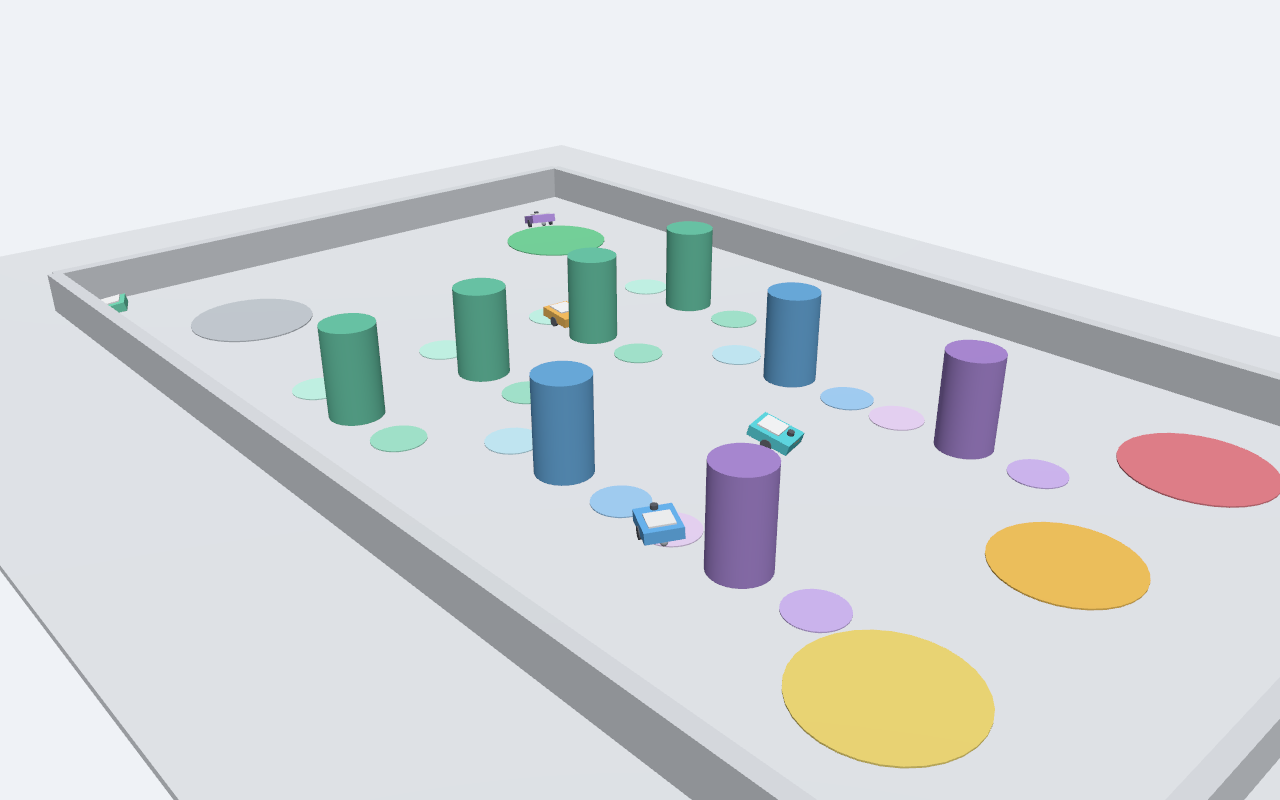
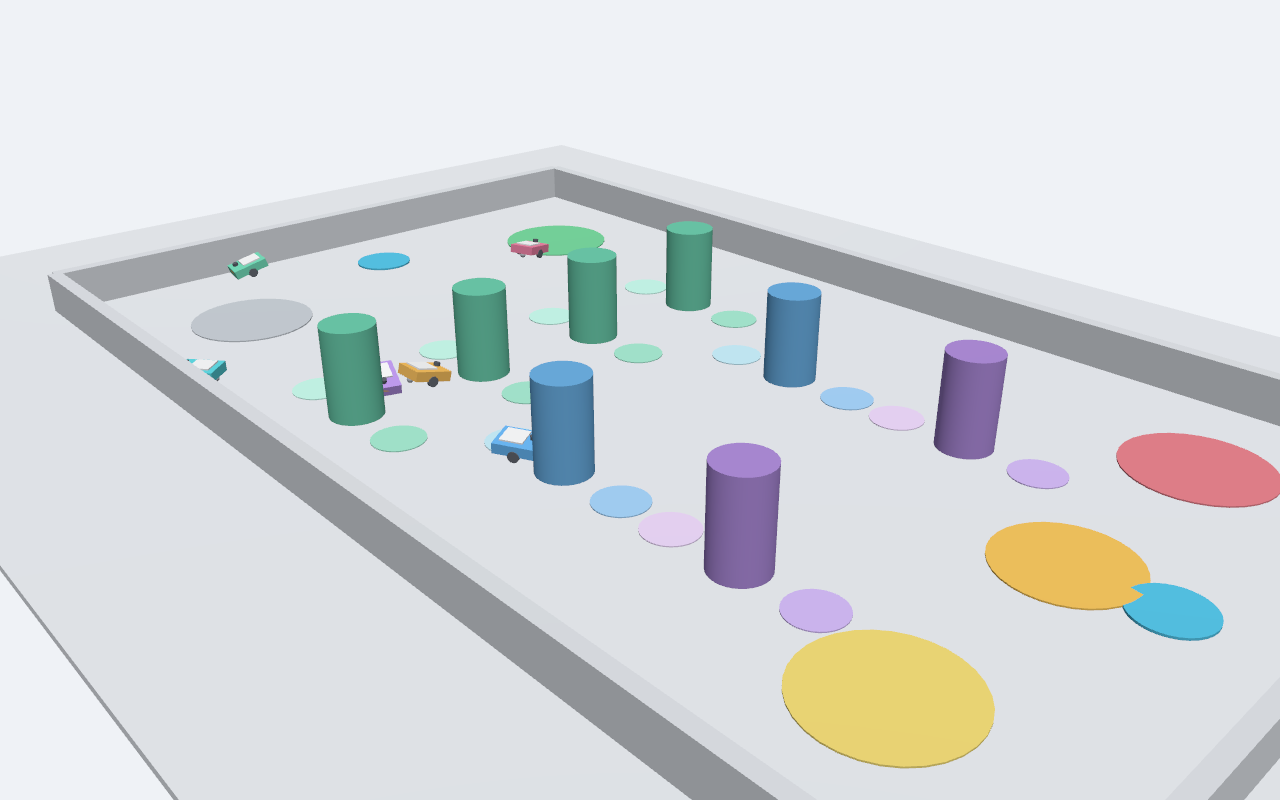
Run the upgraded stack under Gazebo and refresh the captures
- robot_description must be wrapped in ParameterValue when handed to
  robot_state_publisher; launch otherwise tries to parse the URDF as YAML and
  the whole launch aborts. Found by running it under Gazebo rather than
  assuming the logic-only runs covered it.
- expose stuck_timeout and default it to 10 s, since Gazebo's sub-1 real-time
  factor makes a wall-clock watchdog more aggressive than in logic-only mode
- control-centre capture now shows dock slots, chargers and the waiting_lease
  state; refresh the three Gazebo camera views
- document why the comparison is measured headless

diff --git a/src/fleetflow_sim/launch/factory.launch.py b/src/fleetflow_sim/launch/factory.launch.py
@@ -20,6 +20,7 @@ from launch.actions import DeclareLaunchArgument, ExecuteProcess, OpaqueFunction
 from launch.conditions import IfCondition
 from launch.substitutions import Command, LaunchConfiguration
 from launch_ros.actions import Node
+from launch_ros.parameter_descriptions import ParameterValue
 
 from fleetflow_sim import layout
 
@@ -54,7 +55,8 @@ def _robots(context, *args, **kwargs):
             Node(
                 package="robot_state_publisher", executable="robot_state_publisher",
                 name="robot_state_publisher", namespace=f"robot_{i}", output="log",
-                parameters=[dict(robot_description=urdf, frame_prefix=f"robot_{i}/",
+                parameters=[dict(robot_description=ParameterValue(urdf, value_type=str),
+                                 frame_prefix=f"robot_{i}/",
                                  use_sim_time=use_sim_time)],
             )
         )
@@ -64,6 +66,7 @@ def _robots(context, *args, **kwargs):
                 namespace=f"robot_{i}", output="screen",
                 parameters=[dict(robot_id=i, start_x=x, start_y=y,
                                   battery_drain_per_m=float(LaunchConfiguration("battery_drain").perform(context)),
+                                  stuck_timeout_s=float(LaunchConfiguration("stuck_timeout").perform(context)),
                                  use_sim_time=use_sim_time)],
             )
         )
@@ -141,6 +144,7 @@ def generate_launch_description():
         DeclareLaunchArgument("use_sim_time", default_value="false"),
         DeclareLaunchArgument("out_dir", default_value="/tmp/fleetflow_frames"),
         DeclareLaunchArgument("frame_every", default_value="3.0"),
+        DeclareLaunchArgument("stuck_timeout", default_value="10.0"),
         DeclareLaunchArgument("battery_drain", default_value="0.55"),
         DeclareLaunchArgument("policy", default_value="nearest"),
         DeclareLaunchArgument("seed", default_value="7"),

diff --git a/src/fleetflow_sim/launch/logic_only.launch.py b/src/fleetflow_sim/launch/logic_only.launch.py
@@ -56,6 +56,7 @@ def _spawn(context, *args, **kwargs):
                  namespace=f"robot_{i}", output="screen",
                  parameters=[dict(robot_id=i, start_x=x, start_y=y,
                                   battery_drain_per_m=float(LaunchConfiguration("battery_drain").perform(context)),
+                                  stuck_timeout_s=float(LaunchConfiguration("stuck_timeout").perform(context)),
                                   use_internal_kinematics=True)])
         )
     return actions
@@ -66,6 +67,7 @@ def generate_launch_description():
         DeclareLaunchArgument("num_robots", default_value="8"),
         DeclareLaunchArgument("max_tasks_in_flight", default_value="6"),
         DeclareLaunchArgument("num_materials", default_value="12"),
+        DeclareLaunchArgument("stuck_timeout", default_value="10.0"),
         DeclareLaunchArgument("battery_drain", default_value="0.55"),
         DeclareLaunchArgument("policy", default_value="nearest"),
         DeclareLaunchArgument("seed", default_value="7"),

diff --git a/src/fleetflow_sim/fleetflow_sim/robot_controller.py b/src/fleetflow_sim/fleetflow_sim/robot_controller.py
@@ -72,7 +72,7 @@ class RobotController(Node):
         self.declare_parameter("avoid_slow_m", 1.30)
         self.declare_parameter("avoid_stop_m", 0.60)
         self.declare_parameter("scan_stop_m", 0.38)
-        self.declare_parameter("stuck_timeout_s", 7.0)
+        self.declare_parameter("stuck_timeout_s", 10.0)
         # 电量
         self.declare_parameter("battery_drain_per_m", 0.55)
         self.declare_parameter("battery_low_pct", 30.0)

diff --git a/README.zh-CN.md b/README.zh-CN.md
@@ -218,3 +218,11 @@ FleetFlow-ROS2/
   该模式下里程计由本地积分得到，但协同逻辑与仿真模式完全一致。
 - 电量参数调成了"一次短运行内即可观察到充电行为"。真实 AGV 单次充电能跑远得多：
   这里的电量模型是行为演示，不是能耗研究。
+
+## 关于这些数字的来处
+
+两种启动模式下的协同栈是完全相同的，但上面的测量都是用 `logic_only.launch.py` 得到的。
+在没有独立显卡的机器上，Gazebo 的渲染会把实时因子压到 1 以下，于是每一个墙钟指标 ——
+吞吐、时延、看门狗超时 —— 都会被一个与分配策略无关的系数缩放。
+把对比实验放到无渲染模式下跑，才能保证"被测变量"是唯一的变量。
+而 Gazebo 仍然是所有物理相关部分的基准：接触、里程计、LiDAR，以及本页顶部的那些截图。

diff --git a/README.md b/README.md
@@ -237,3 +237,13 @@ FleetFlow-ROS2/
 - Battery parameters are tuned so a charging cycle is observable inside a short run. Real
   AGVs manage far more distance per charge; the model is a behaviour demonstration, not an
   energy study.
+
+## A note on where the numbers come from
+
+The coordination stack is identical in both launch modes, but the measurements above are
+taken with `logic_only.launch.py`. Under Gazebo the renderer holds the real-time factor
+below 1 on a machine without a discrete GPU, so every wall-clock metric — throughput,
+latency, watchdog timeouts — is scaled by a factor that has nothing to do with the
+allocation policy. Running the comparison headless keeps the variable being tested as the
+only variable. Gazebo is still the reference for everything physical: contact, odometry,
+LiDAR, and the screenshots at the top of this page.
